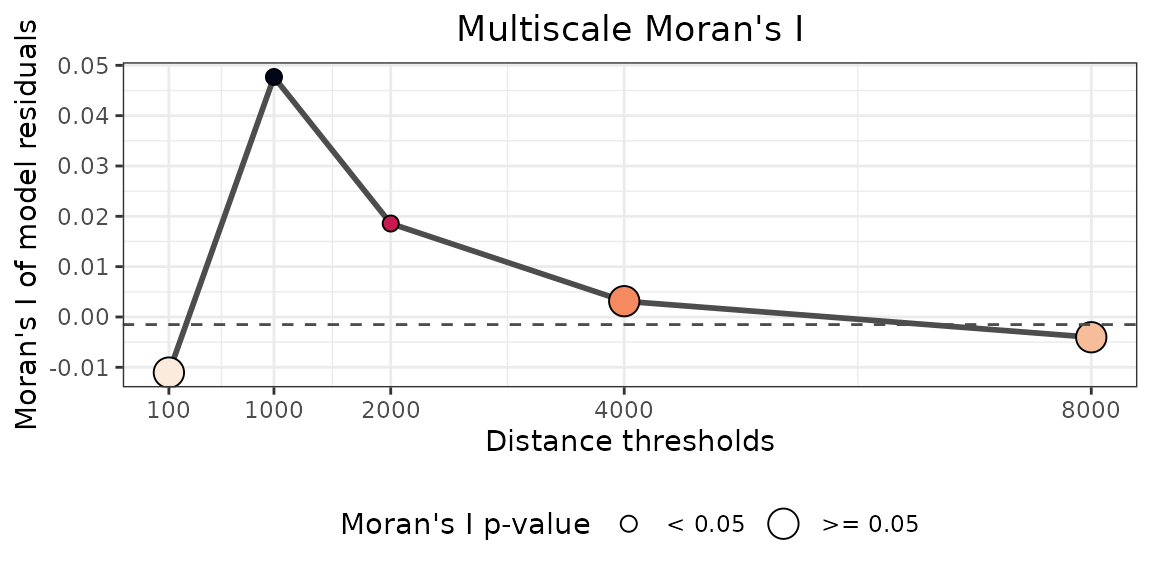
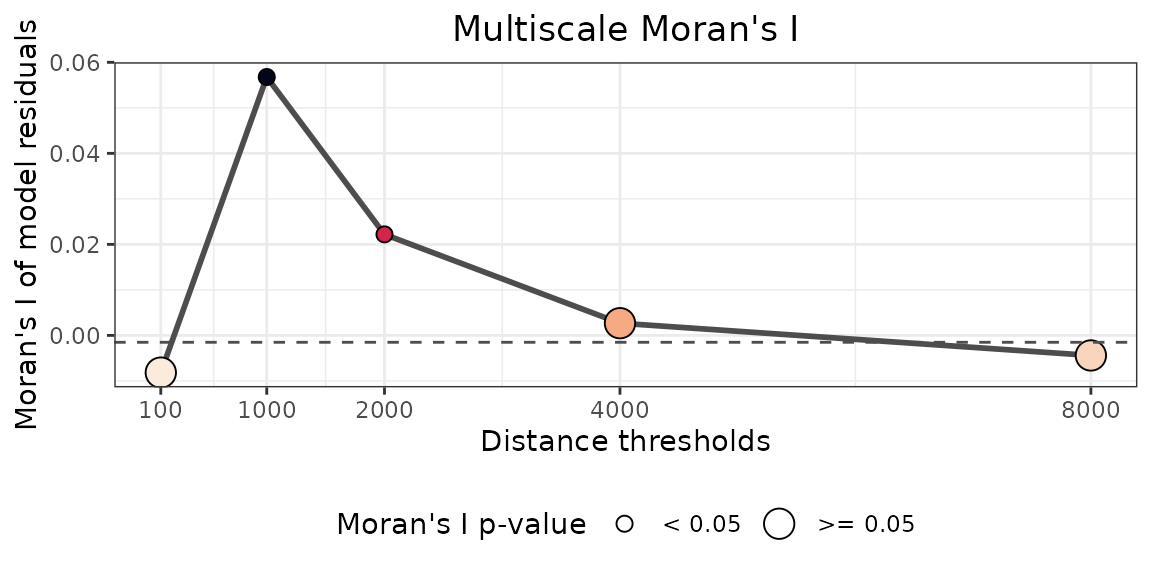
Deploying to gh-pages from @ BlasBenito/spatialData@0ced03eab6cda7bbf4d0103682247337b3b940f1 🚀

diff --git a/articles/interaction.html b/articles/interaction.html
@@ -137,10 +137,10 @@ this tutorial.</p>
 <span><span class="co">#&gt; <span style="color: #00BBBB;">ℹ</span> Executing `sudo sh -c apt-get -y update`</span></span>
 <span><span class="co">#&gt; Get:1 file:/etc/apt/apt-mirrors.txt Mirrorlist [144 B]</span></span>
 <span><span class="co">#&gt; Hit:2 http://azure.archive.ubuntu.com/ubuntu noble InRelease</span></span>
+<span><span class="co">#&gt; Hit:6 https://packages.microsoft.com/repos/azure-cli noble InRelease</span></span>
 <span><span class="co">#&gt; Hit:3 http://azure.archive.ubuntu.com/ubuntu noble-updates InRelease</span></span>
 <span><span class="co">#&gt; Hit:4 http://azure.archive.ubuntu.com/ubuntu noble-backports InRelease</span></span>
 <span><span class="co">#&gt; Hit:5 http://azure.archive.ubuntu.com/ubuntu noble-security InRelease</span></span>
-<span><span class="co">#&gt; Hit:6 https://packages.microsoft.com/repos/azure-cli noble InRelease</span></span>
 <span><span class="co">#&gt; Hit:7 https://packages.microsoft.com/ubuntu/24.04/prod noble InRelease</span></span>
 <span><span class="co">#&gt; Reading package lists...</span></span>
 <span><span class="co">#&gt; <span style="color: #00BBBB;">ℹ</span> Executing `sudo sh -c apt-get -y install libgdal-dev gdal-bin libgeos-dev libproj-dev libsqlite3-dev libabsl-dev cmake libssl-dev libudunits2-dev make libuv1-dev zlib1g-dev pandoc libpng-dev libicu-dev libfontconfig1-dev libfreetype6-dev libfribidi-dev libharfbuzz-dev texlive libxml2-dev`</span></span>
@@ -180,7 +180,7 @@ this tutorial.</p>
 <span><span class="co">#&gt; The following NEW packages will be installed:</span></span>
 <span><span class="co">#&gt; dvisvgm fonts-lmodern fonts-texgyre fonts-texgyre-math libgumbo2</span></span>
 <span><span class="co">#&gt;   libkpathsea6 libmujs3 libpotrace0 libptexenc1 libsynctex2 libteckit0</span></span>
-<span><span class="co">#&gt; libtexlua53-5 libwoff1 libzzip-0-13t64 lmodern mupdf-tools tex-gyre texlive</span></span>
+<span><span class="co">#&gt;   libtexlua53-5 libwoff1 libzzip-0-13t64 lmodern mupdf-tools tex-gyre texlive</span></span>
 <span><span class="co">#&gt;   texlive-base texlive-binaries texlive-fonts-recommended texlive-latex-base</span></span>
 <span><span class="co">#&gt;   texlive-latex-recommended tipa</span></span>
 <span><span class="co">#&gt; 0 upgraded, 24 newly installed, 0 to remove and 23 not upgraded.</span></span>
@@ -212,7 +212,7 @@ this tutorial.</p>
 <span><span class="co">#&gt; Get:24 http://azure.archive.ubuntu.com/ubuntu noble/universe amd64 texlive all 2023.20240207-1 [14.0 kB]</span></span>
 <span><span class="co">#&gt; Get:25 http://azure.archive.ubuntu.com/ubuntu noble/universe amd64 tipa all 2:1.3-21 [2967 kB]</span></span>
 <span><span class="co">#&gt; Preconfiguring packages ...</span></span>
-<span><span class="co">#&gt; Fetched 131 MB in 3s (43.5 MB/s)</span></span>
+<span><span class="co">#&gt; Fetched 131 MB in 3s (46.0 MB/s)</span></span>
 <span><span class="co">#&gt; Selecting previously unselected package libkpathsea6:amd64.</span></span>
 <span><span class="co">#&gt; (Reading database ...</span></span>
 <span><span class="co">#&gt; (Reading database ... 5%(Reading database ... 10%(Reading database ... 15%(Reading database ... 20%(Reading database ... 25%(Reading database ... 30%(Reading database ... 35%(Reading database ... 40%(Reading database ... 45%(Reading database ... 50%(Reading database ... 55%</span></span>
@@ -352,9 +352,9 @@ this tutorial.</p>
 <span><span class="co">#&gt; No containers need to be restarted.</span></span>
 <span><span class="co">#&gt; </span></span>
 <span><span class="co">#&gt; User sessions running outdated binaries:</span></span>
-<span><span class="co">#&gt; runner @ user manager service: systemd[1078]</span></span>
+<span><span class="co">#&gt; runner @ user manager service: systemd[1115]</span></span>
 <span><span class="co">#&gt; No VM guests are running outdated hypervisor (qemu) binaries on this host.</span></span>
-<span><span class="co">#&gt; <span style="color: #00BB00;">✔</span> 7 pkgs + 126 deps: kept 131 <span style="color: #B2B2B2;">[37.7s]</span></span></span></code></pre></div>
+<span><span class="co">#&gt; <span style="color: #00BB00;">✔</span> 7 pkgs + 126 deps: kept 131 <span style="color: #B2B2B2;">[42.6s]</span></span></span></code></pre></div>
 </div>
 <div class="section level2">
 <h2 id="data-structure">Data Structure<a class="anchor" aria-label="anchor" href="#data-structure"></a>